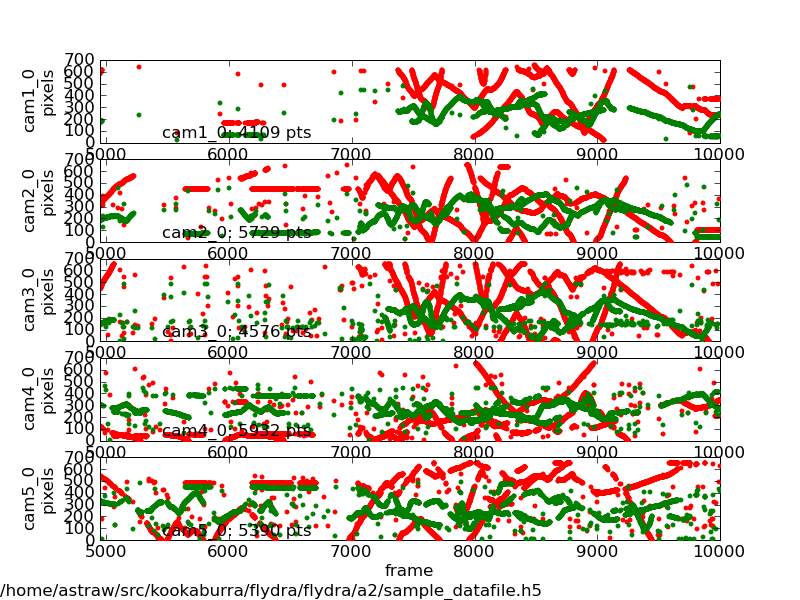
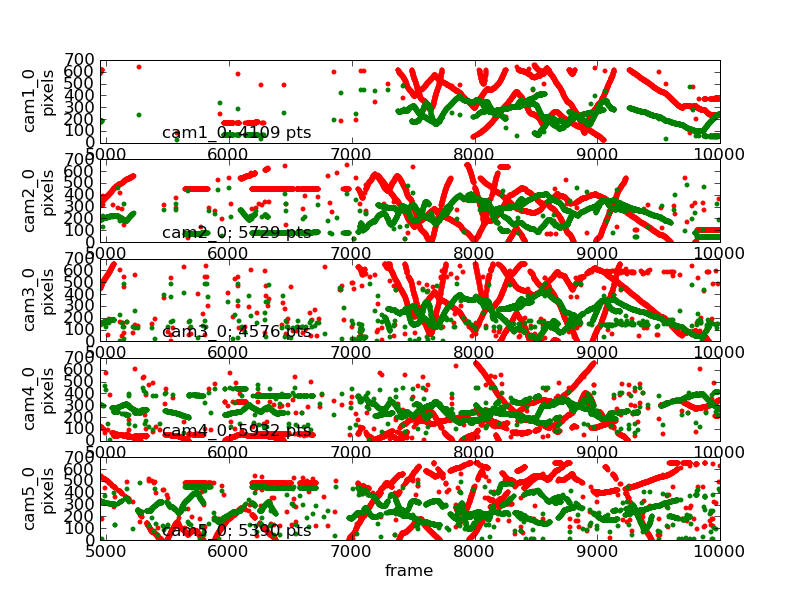
don't show source name in autogenerated images
git-svn-id: https://code.astraw.com/kookaburra/trunk/flydra@2994 e6c0db7a-28da-0310-a2fc-f6ab65d9114a

Changed region(s): [[0.0, 0.96, 0.6875, 1.0]]

diff --git a/flydra/test_commands.py b/flydra/test_commands.py
@@ -1,6 +1,6 @@
 """test flydra installed system commands"""
 import pkg_resources
-import os, subprocess, tempfile, shutil, sys
+import os, subprocess, tempfile, shutil, sys, warnings
 import numpy as np
 import scipy.misc
 from optparse import OptionParser
@@ -58,14 +58,14 @@ image_info = [
      },
 
     {'cmd':('flydra_analysis_plot_timeseries_2d_3d %(DATAFILE2D)s '
-            '--save-fig=%(target)s'),
+            '--save-fig=%(target)s --hide-source-name'),
      'result':'plot_timeseries_2d.png',
      'title':'Timeseries of 2D data',
      },
 
     {'cmd':('flydra_analysis_plot_timeseries_2d_3d %(DATAFILE2D)s '
             '--kalman-file=%(DATAFILE3D)s --disable-kalman-smoothing '
-            '--save-fig=%(target)s --likely-only'),
+            '--save-fig=%(target)s --likely-only --hide-source-name'),
      'result':'plot_timeseries_2d_3d.png',
      'title':'Timeseries of 2D and 3D data',
      'rst_comments':"""The ``--likely-only`` argument limits
@@ -229,13 +229,16 @@ def check_command_with_image(mode,info):
                 warnings.warn('replacing old autogenerated image '
                               '%s with new'%result_fullpath)
                 shutil.move(target,result_fullpath)
-            elif 0:
+            else:
                 are_same = are_images_close( target, result_fullpath,
                                              ok_fraction_threshold=1.0)
                 if not are_same:
                     warnings.warn('autogenerated image is almost the'
                                   'same, but not exactly the same, as'
-                                  'previously autogenerated image')
+                                  'previously autogenerated image. (new: %s, '
+                                  'target: %s)'%(target,result_fullpath))
+        else:
+            shutil.move( target, result_fullpath )
 
 
 def check_command(mode,info):

diff --git a/flydra/a2/plot_timeseries_2d_3d.py b/flydra/a2/plot_timeseries_2d_3d.py
@@ -63,10 +63,14 @@ def doit(
 
     for filename in filenames:
 
-        figtitle = filename
+        if options.show_source_name:
+            figtitle = filename
+        else:
+            figtitle = ''
         if options.obj_only is not None:
             figtitle += ' only showing objects: ' + ' '.join(map(str,options.obj_only))
-        pylab.figtext(0,0,figtitle)
+        if figtitle != '':
+            pylab.figtext(0,0,figtitle)
 
         h5 = PT.openFile( filename, mode='r' )
 
@@ -407,6 +411,12 @@ def main():
     parser.add_option("--reproj-error", action='store_true',
                       default=False,
                       help="calculate and print to console the mean reprojection error for each camera")
+
+    parser.add_option("--hide-source-name",
+                      action='store_false',
+                      dest='show_source_name',
+                      default=True,
+                      help="show the source filename?")
 
     parser.add_option("--fps", dest='fps', type='float',
                       help="frames per second (used for Kalman filtering/smoothing)")

diff --git a/flydra-sphinx-docs/gallery.rst b/flydra-sphinx-docs/gallery.rst
@@ -31,7 +31,7 @@ Timeseries of 2D data
 
 The following command generated this image::
 
-  flydra_analysis_plot_timeseries_2d_3d DATAFILE2D.h5 --save-fig=image.png
+  flydra_analysis_plot_timeseries_2d_3d DATAFILE2D.h5 --save-fig=image.png --hide-source-name
 
 
 .. image:: ../flydra/autogenerated/plot_timeseries_2d.png
@@ -42,7 +42,7 @@ Timeseries of 2D and 3D data
 
 The following command generated this image::
 
-  flydra_analysis_plot_timeseries_2d_3d DATAFILE2D.h5 --kalman-file=DATAFILE3D.h5 --disable-kalman-smoothing --save-fig=image.png --likely-only
+  flydra_analysis_plot_timeseries_2d_3d DATAFILE2D.h5 --kalman-file=DATAFILE3D.h5 --disable-kalman-smoothing --save-fig=image.png --likely-only --hide-source-name
 
 The ``--likely-only`` argument limits
 the 2D data plotted.
